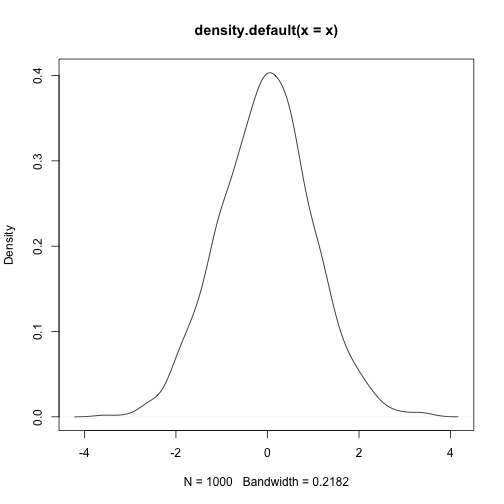
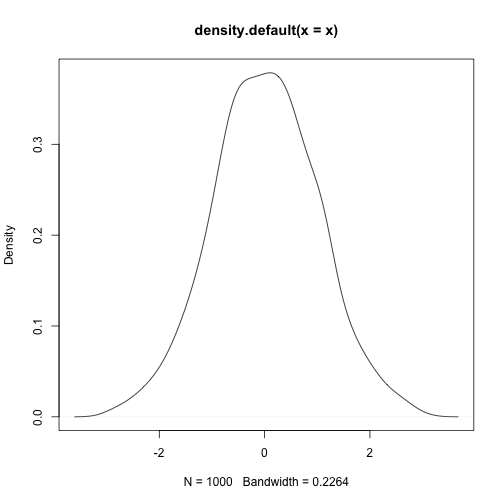
re-ran the  command to generate figures.

diff --git a/_episodes/02-literate-programming.md b/_episodes/02-literate-programming.md
@@ -13,8 +13,7 @@ keypoints:
 - "Output can be rendered in many formats."
 - "You don't need to know HTML!"
 output:  
-      html_document: 
-        keep_md: yes
+      html_document
 ---
 
 
@@ -158,11 +157,11 @@ head(x)
 ```
 
 ```
-## [1]  0.6692671  0.3368929 -0.8972072 -0.3011750  1.5467855  0.7634662
+## [1]  2.09243473 -2.09679159 -2.83122013  0.93894639 -0.04567465  0.34814887
 ```
 
 
-`knitr` offers a lot of control over representing different types of output. We can also have inline `R` expressions computed on the fly. The mean $\bar{x} = \frac{1}{n} \sum_{i=1}^{n} x_{i}$ of the 1000 random variates we generated is -0.033. This figure is computed on-the-fly as well. No more copy-paste, including for figures:
+`knitr` offers a lot of control over representing different types of output. We can also have inline `R` expressions computed on the fly. The mean $\bar{x} = \frac{1}{n} \sum_{i=1}^{n} x_{i}$ of the 1000 random variates we generated is 0.023. This figure is computed on-the-fly as well. No more copy-paste, including for figures:
 
 
 ```r
@@ -180,11 +179,11 @@ head(x)
 ```
 
 ```
-## [1]  1.4556782  0.3178687 -1.0711710 -0.6260914 -0.5582745 -0.2935842
+## [1]  0.3708563 -0.5090251 -0.8734715 -1.4969929  1.6407819 -1.0947855
 ```
 
 
-`knitr` offers a lot of control over representing different types of output. We can also have inline R expressions computed on the fly. The mean $\bar{x} = \frac{1}{n} \sum_{i=1}^{n} x_{i}$ of the 1000 random variates we generated is -0.001. This figure is computed on-the-fly as well. No more copy-paste, including for figures:
+`knitr` offers a lot of control over representing different types of output. We can also have inline R expressions computed on the fly. The mean $\bar{x} = \frac{1}{n} \sum_{i=1}^{n} x_{i}$ of the 1000 random variates we generated is 0.005. This figure is computed on-the-fly as well. No more copy-paste, including for figures:
 
 
 ```r
@@ -205,10 +204,10 @@ head(x)
 ```
 
 ```
-## [1] -1.58052655 -2.11861533 -0.10424644 -0.09271937  0.74296567 -1.36228170
+## [1]  1.2307257 -1.8706574  0.3957057 -0.2791362 -0.1859763  0.3200734
 ```
 
-`knitr` offers a lot of control over representing different types of output. We can also have inline R expressions computed on the fly. The mean $\bar{x} = \frac{1}{n} \sum_{i=1}^{n} x_{i}$ of the 1000 random variates we generated is -0.015. This figure is computed on-the-fly as well. No more copy-paste, including for figures:
+`knitr` offers a lot of control over representing different types of output. We can also have inline R expressions computed on the fly. The mean $\bar{x} = \frac{1}{n} \sum_{i=1}^{n} x_{i}$ of the 1000 random variates we generated is -0.021. This figure is computed on-the-fly as well. No more copy-paste, including for figures:
 
 
 ```r
@@ -218,7 +217,7 @@ plot(density(x))
 <img src="figure/sec_8-1.png" title="plot of chunk sec_8" alt="plot of chunk sec_8" style="display: block; margin: auto;" />
 
 
-This is an `RMarkdown` document. ```{r} x <- rnorm(1000) head(x) ``` `knitr` offers a lot of control over representing different types of output. We can also have inline R expressions computed on the fly. The mean $\bar{x} = \frac{1}{n} \sum_{i=1}^{n} x_{i}$ of the 1000 random variates we generated is -0.015. No more copy-paste, including for figures: ```{r} plot(density(x)) ```
+This is an `RMarkdown` document. ```{r} x <- rnorm(1000) head(x) ``` `knitr` offers a lot of control over representing different types of output. We can also have inline R expressions computed on the fly. The mean $\bar{x} = \frac{1}{n} \sum_{i=1}^{n} x_{i}$ of the 1000 random variates we generated is -0.021. No more copy-paste, including for figures: ```{r} plot(density(x)) ```
 
 
 ## Rendering can be automated is thus repeatable

diff --git a/_episodes/01-literate-programming.md b/_episodes/01-literate-programming.md
@@ -11,9 +11,9 @@ keypoints:
 - "Keep raw data read only."
 - "Manipulate data in a reproducible manner"
 output:  
-      html_document: 
-        keep_md: yes
+      html_document
 ---
+
 > ## Prerequisites
 > Installation of R and RStudio:
 > - Download R from [CRAN](https://cran.r-project.org/)
@@ -25,6 +25,7 @@ output:
 This section is broken down into two sections:
 1. **Data manipulation**
 1. **Literate programming**
+1. **Explore a working knitr document**
 
 > ## 1. Documenting data modifications
 > - Distinguish between a spreadsheet formatted properly for later analysis in `R` and one formatted improperly.

diff --git a/_episodes/03-literate-programming.md b/_episodes/03-literate-programming.md
@@ -12,9 +12,9 @@ keypoints:
 - "`RMarkdown` and `knitr` are powerful tools."
 - "It all comes together very nicely"
 output:  
-      html_document: 
-        keep_md: yes
+      html_document
 ---
+
 > ## 2.  Bring it all together
 > - Contrast literate programming with stand-alone scripts and stand-alone documentation.
 > - Relate literate programming to reproducible generation of scientific figures and analysis results.
